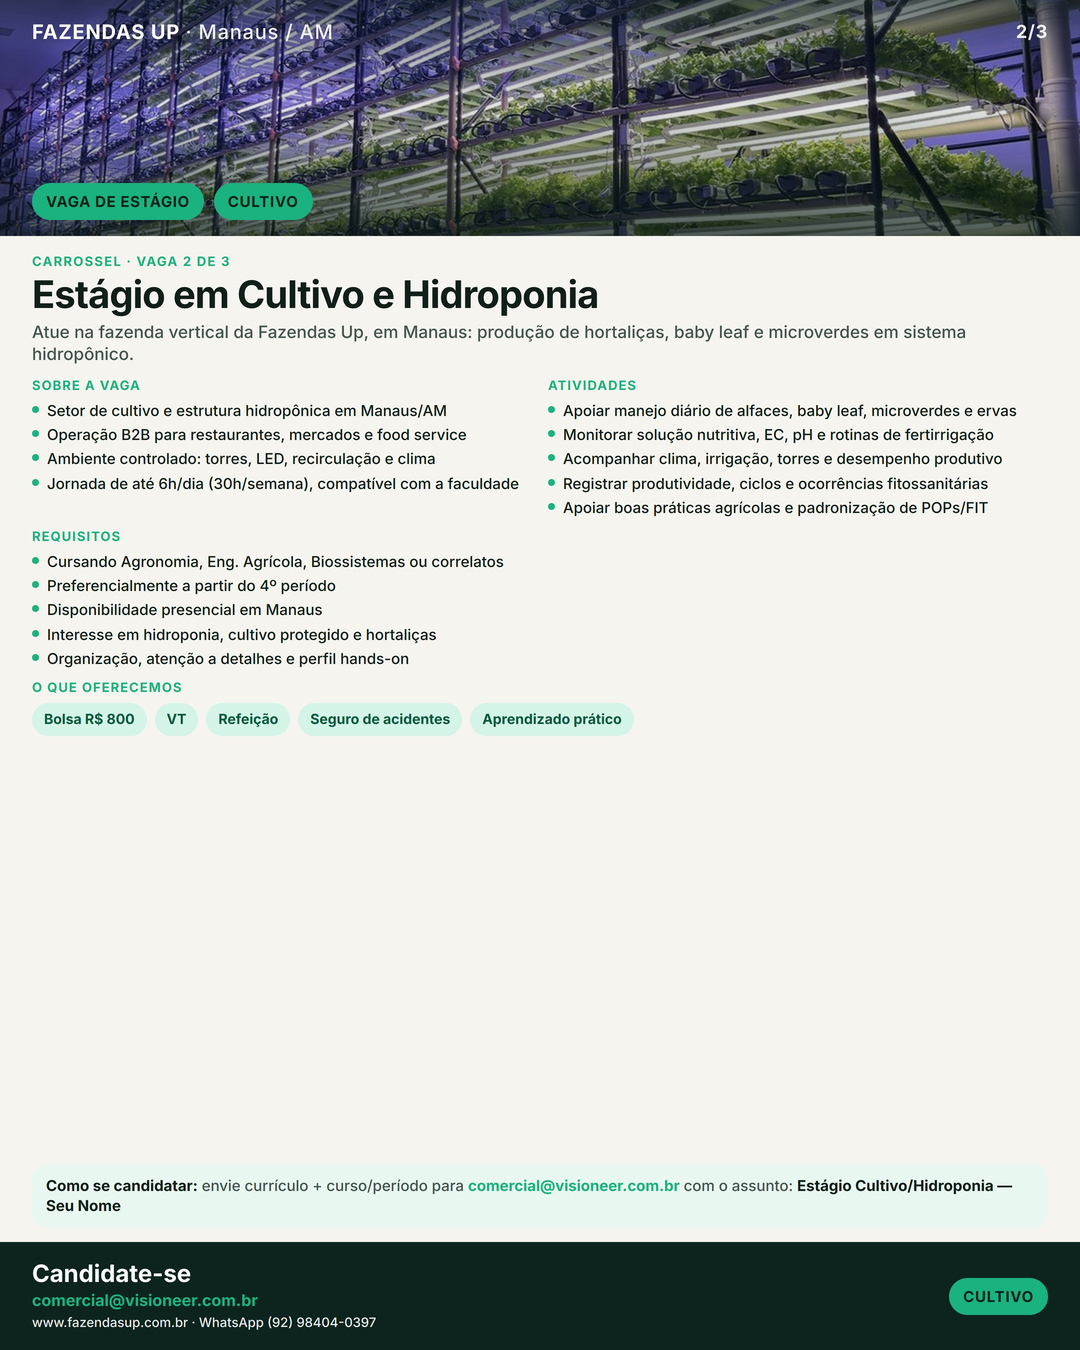
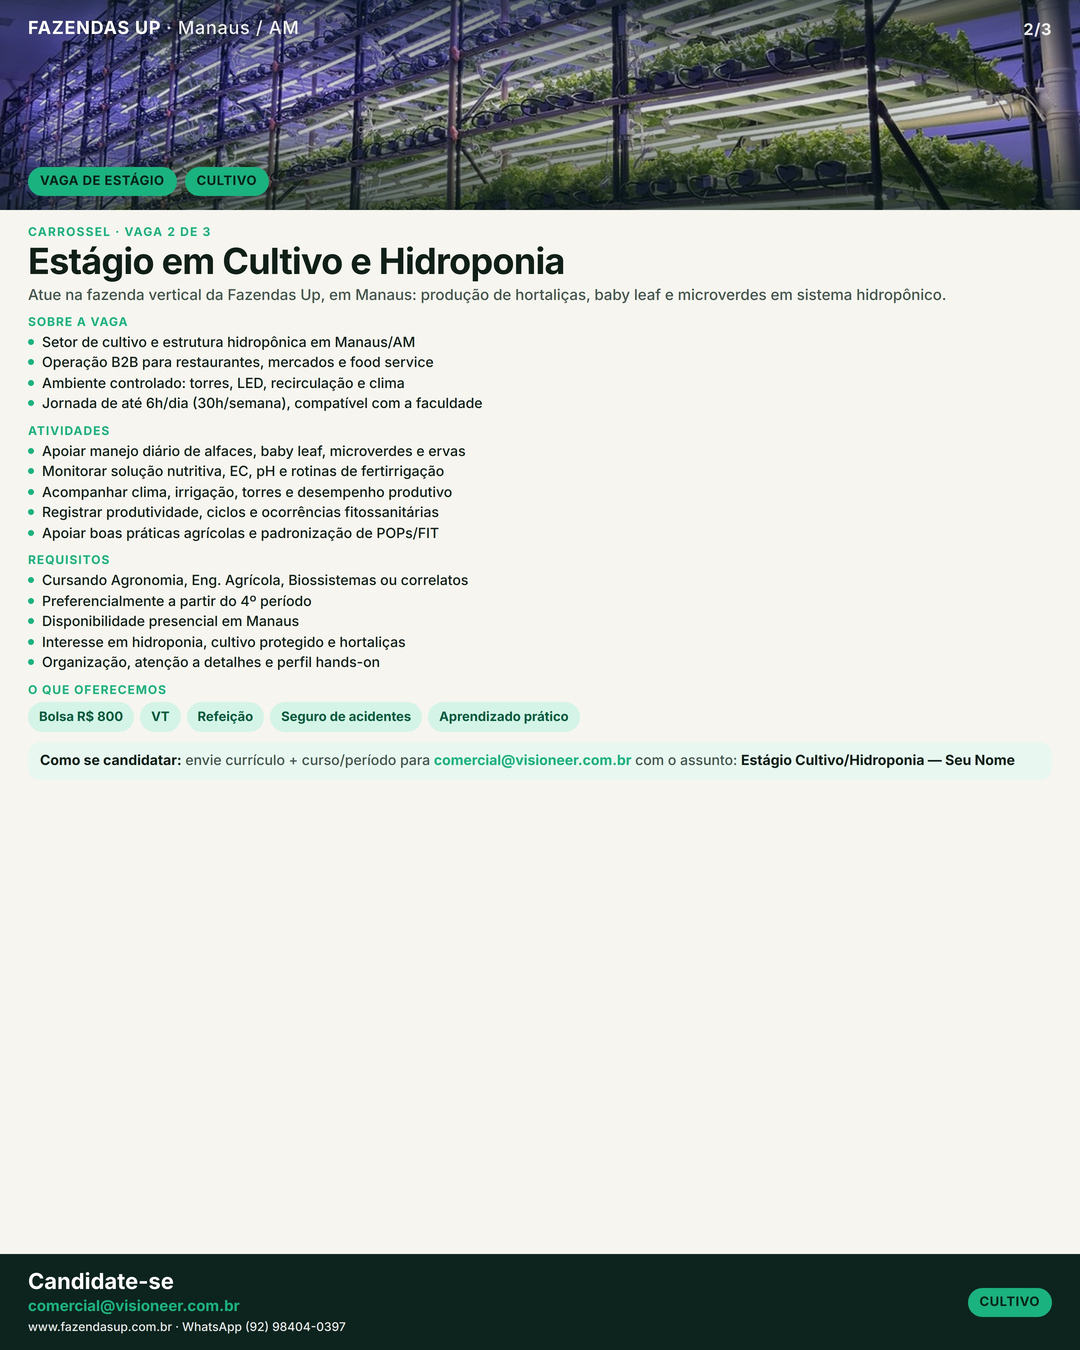
fix: layout coluna única com texto completo das vagas
Remove o grid de 2 colunas (causava aparência de sobreposição),
mantém sobre/atividades/requisitos/benefícios originais e valida
overflow no render.

diff --git a/client/public/instagram-estagios/index.html b/client/public/instagram-estagios/index.html
@@ -3,6 +3,7 @@
 <head>
   <meta charset="utf-8" />
   <meta name="viewport" content="width=device-width, initial-scale=1, viewport-fit=cover" />
+  <meta http-equiv="Cache-Control" content="no-cache, no-store, must-revalidate" />
   <title>Fazendas Up — Carrossel Instagram Estágio</title>
   <style>
     :root { --green:#1ab37f; --ink:#102018; --bg:#f4f1ea; }
@@ -22,20 +23,20 @@
   <h1>Carrossel Instagram — 3 vagas</h1>
   <p class="sub">Um único post com 3 slides (1080×1350). Ordem: Admin → Cultivo → Qualidade.</p>
   <div class="tip">
-    Salve as 3 imagens nesta ordem e publique como <b>um carrossel</b> no feed.<br/>
-    iPhone: toque → compartilhar → Salvar imagem. Android: toque e segure → Baixar.
+    Atualizado agora. Se ainda ver a versão antiga, feche a aba e abra este link de novo.<br/>
+    Salve as 3 imagens nesta ordem e publique como <b>um carrossel</b> no feed.
   </div>
   <div class="grid">
-    <a class="card" href="01-admin.jpg" download>
-      <img src="01-admin.jpg" alt="Estágio em Administração" loading="lazy" />
+    <a class="card" href="01-admin.jpg?v=mwtgnyk5" download="01-admin.jpg">
+      <img src="01-admin.jpg?v=mwtgnyk5" alt="Estágio em Administração" loading="lazy" />
       <div class="meta">01/03 · ADMIN<small>Estágio em Administração — Salvar</small></div>
     </a>
-    <a class="card" href="02-cultivo.jpg" download>
-      <img src="02-cultivo.jpg" alt="Estágio em Cultivo e Hidroponia" loading="lazy" />
+    <a class="card" href="02-cultivo.jpg?v=mwtgnyk5" download="02-cultivo.jpg">
+      <img src="02-cultivo.jpg?v=mwtgnyk5" alt="Estágio em Cultivo e Hidroponia" loading="lazy" />
       <div class="meta">02/03 · CULTIVO<small>Estágio em Cultivo e Hidroponia — Salvar</small></div>
     </a>
-    <a class="card" href="03-qualidade.jpg" download>
-      <img src="03-qualidade.jpg" alt="Estágio em Processamento e Qualidade" loading="lazy" />
+    <a class="card" href="03-qualidade.jpg?v=mwtgnyk5" download="03-qualidade.jpg">
+      <img src="03-qualidade.jpg?v=mwtgnyk5" alt="Estágio em Processamento e Qualidade" loading="lazy" />
       <div class="meta">03/03 · QUALIDADE<small>Estágio em Processamento e Qualidade — Salvar</small></div>
     </a></div>
 </body>

diff --git a/marketing/instagram-estagios/README.md b/marketing/instagram-estagios/README.md
@@ -1,14 +1,10 @@
 # Carrossel Instagram — Vagas de Estágio
 
-**Um único post** no feed, **3 slides** (uma página por vaga), **1080 × 1350**.
-
-Conteúdo completo: sobre, atividades, requisitos, benefícios e candidatura.
+Um post, 3 slides (1080×1350), texto completo das artes originais.
 
 1. `01-admin.jpg`
 2. `02-cultivo.jpg`
 3. `03-qualidade.jpg`
-
-Baixar: `/instagram-estagios/` no preview Pages.
 
 ```bash
 node scripts/ig-feed/render-carousels.mjs
